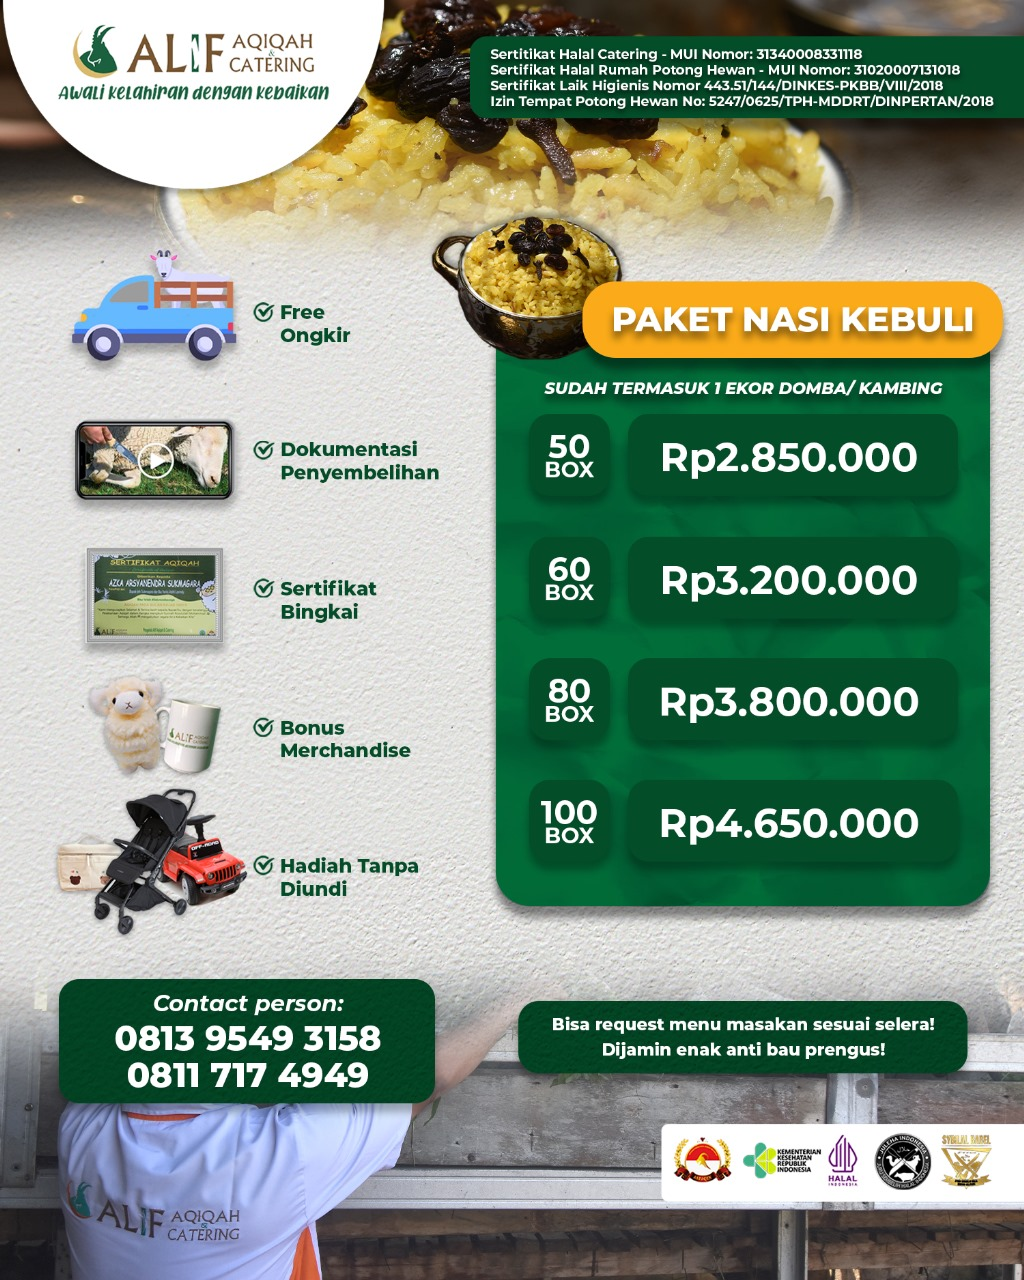
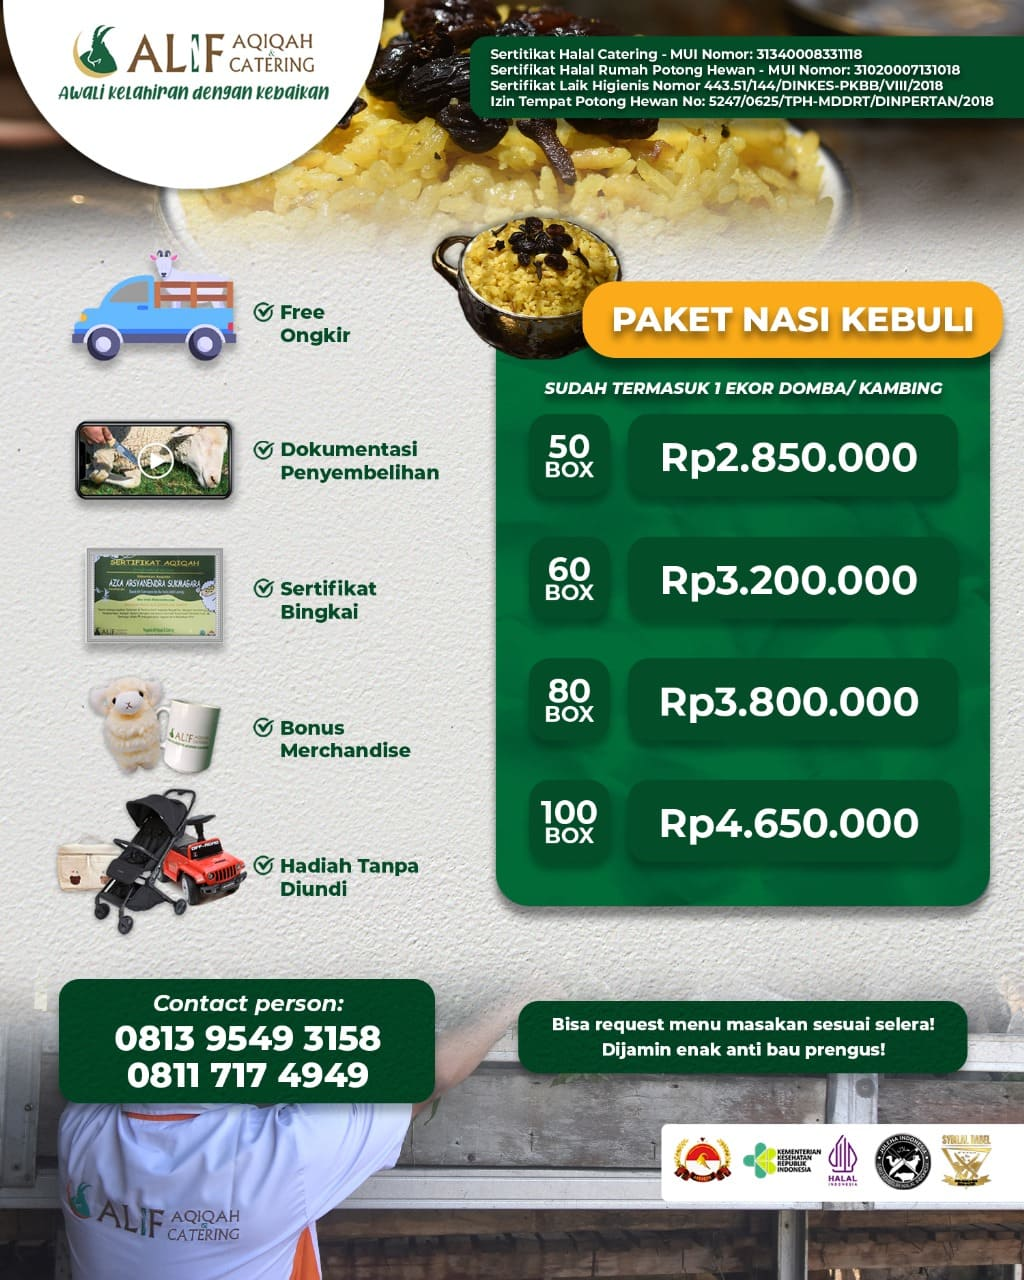
[v.1.2.7] reduce some image sizes

Changed region(s): [[0.5312, 0.5312, 0.5625, 0.5625], [0.5312, 0.4375, 0.5625, 0.4688], [0.5, 0.0312, 0.5312, 0.0625]]

diff --git a/resources/views/home.blade.php b/resources/views/home.blade.php
@@ -1359,7 +1359,7 @@
                                 <div class="mb-3">
                                     <label for="message" class="text-white form-label">Has registered in :</label>
                                     <div class="">
-                                        <img class="mx-2" src="../../images/aspaqin-logo.webp" alt="" style="width: 115px;">
+                                        <img class="mx-2" src="../../images/aspaqin-logo.webp" alt="" style="width: 110px;">
                                         <img class="mx-2" src="../../images/kemenkes.png" alt="" style="width: 130px;">
                                         <img class="mx-2" src="../../images/juleha.png" alt="" style="width: 100px;">
                                         <img class="mx-1s" src="../../images/halal.png" alt="" style="width: 100px;">
